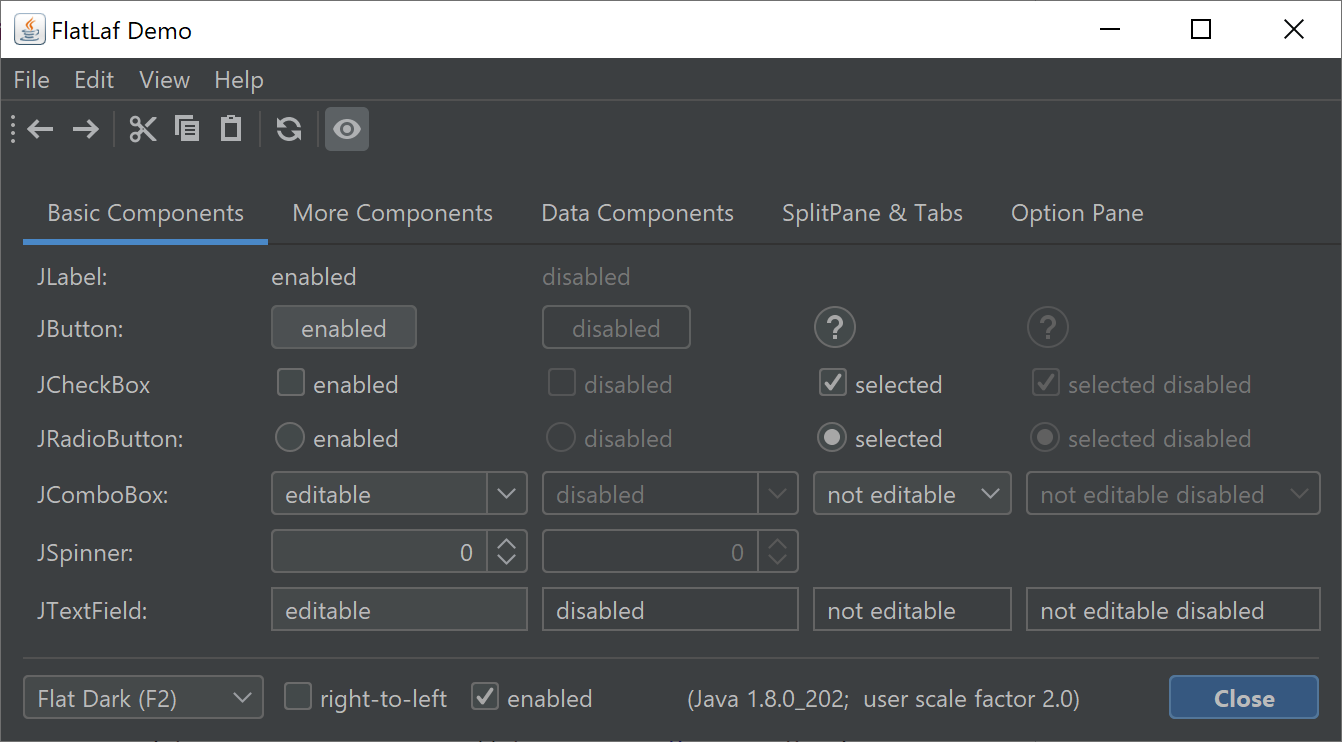
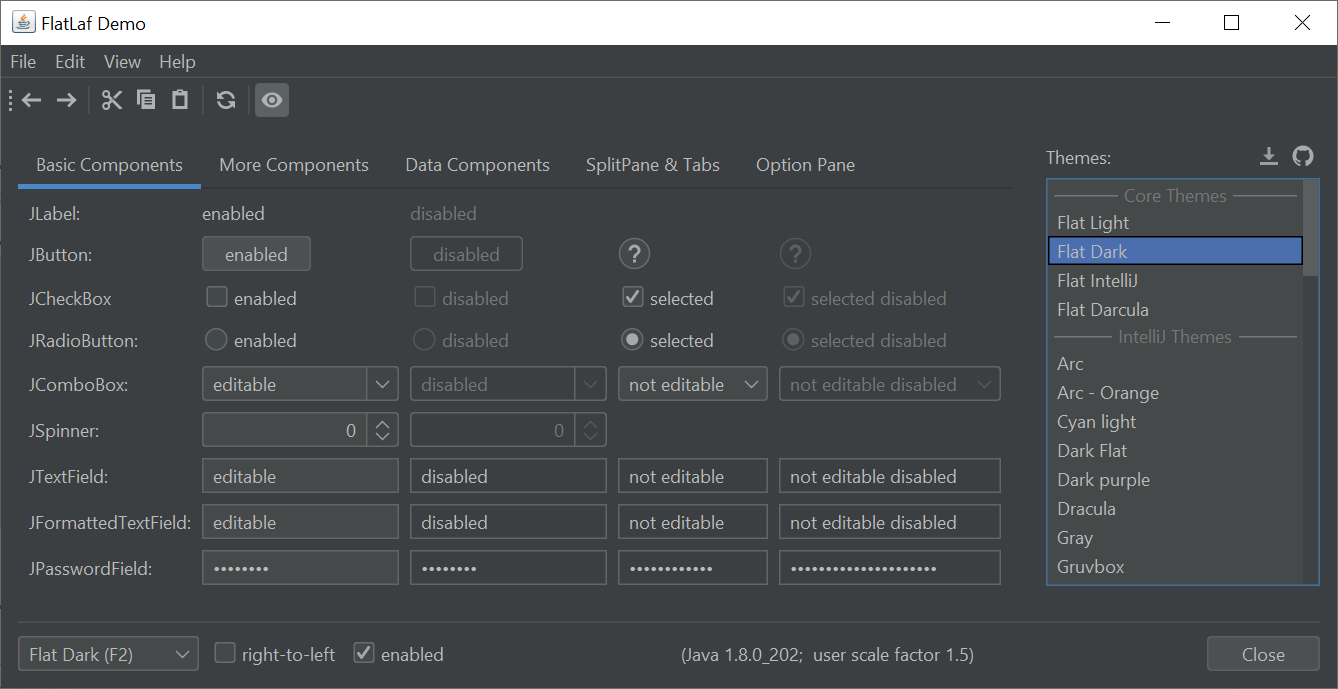
screenshots updated

diff --git a/README.md b/README.md
@@ -16,6 +16,16 @@ IntelliJ IDEA 2019.2+ and uses almost the same colors and icons.
 ![Flat Dark Demo](images/FlatDarkDemo.png)
 
 
+IntelliJ Platform Themes
+------------------------
+
+FlatLaf can use 3rd party themes created for IntelliJ Platform:
+
+![Cyan Light Demo](images/CyanLightDemo.png)
+
+![Dark Purple Demo](images/DarkPurpleDemo.png)
+
+
 Demo
 ----
 
